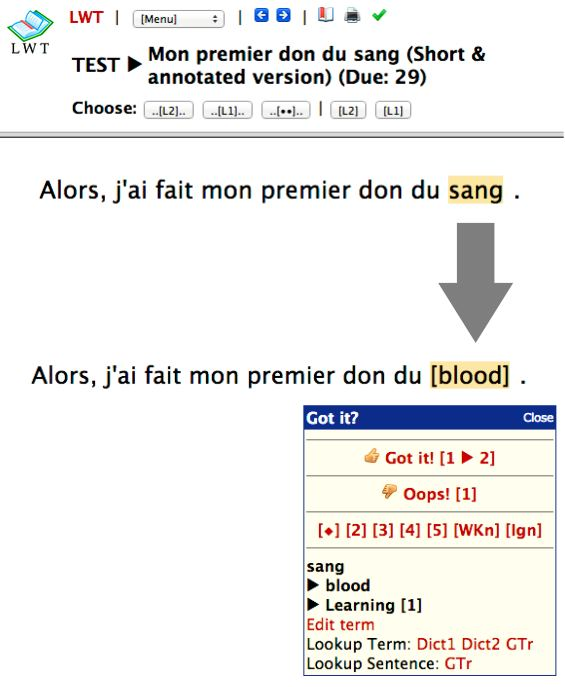
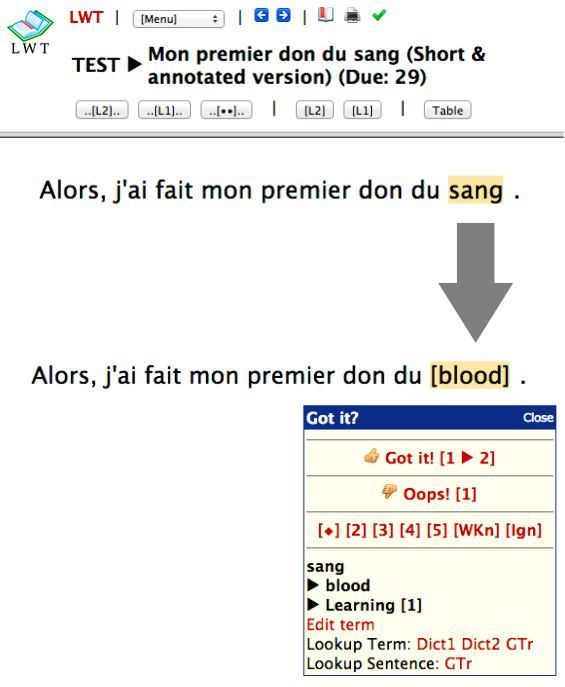
Version 1.5.4 (18-Jun-2013 19:01)

Changed region(s): [[0.4513, 0.1223, 0.8425, 0.1834], [0.1204, 0.1223, 0.4212, 0.1834]]

diff --git a/info.htm b/info.htm
@@ -247,14 +247,18 @@ $(document).ready( function() {
           </li>
 
           <li>
-            <b>LWT Online Demo</b> (User ID = <b>lwt</b>, Password = <b>lwt</b>) - <b>try it out:</b>
+            <b>LWT Online Demos</b> - <b>try it out:</b>
 						<ul>
-							<li>
-							<a href="http://lwt.sourceforge.net/testdb/" target="_blank"><b>START ONLINE DEMO</b></a> <br />
-							This LWT trial runs on a rather slow Sourceforge server. Please do not use for productive work. Your data may be deleted at any time! Only one LWT table set is available - the multiple table set feature has been deactivated in this demo!
+							<li><b>General Hints:</b>
+								<ul>
+								<li>Please do not use for productive work.</li>
+								<li>Your data may be deleted at any time by other users!</li>
+								<li>Only one LWT table set is available - the multiple table set feature has been deactivated.</li>
+								<li>You may "reset" the demo by going to "Backup/Restore", and by clicking on "Install LWT Demo Database".</li>
+							</ul>
+							<li><a href="http://lwt.allalla.com" target="_blank"><b>START ONLINE DEMO #1</b></a> (at 1freehosting.com, quite fast, User ID = <b>lwt</b>, Password = <b>pw4lwt</b>)
 							</li>
-							<li>
-							<b>Hint: </b>You may "reset" the demo by going to "Backup/Restore", and by clicking on "Install LWT Demo Database". 
+							<li><a href="http://lwt.sourceforge.net/testdb/" target="_blank"><b>START ONLINE DEMO #2</b></a> (at sourceforge.net, quite slow sometimes, User ID = <b>lwt</b>, Password = <b>lwt</b>)
 							</li>
 						</ul>
             <br />
@@ -1352,7 +1356,7 @@ Developed by J. P. in 2011, 2012, 2013.
             <b>Test terms in a text (L2 -&gt; L1)</b>
             <br />
             <br />
-            This is Test #1: L2 -&gt; L1 (recognition) - to train your ability to recognize a L2 term. You may test within sentence context (Button "..[L2].."), or just the term (Button "[L2]"). You can also use the Keyboard in the test frame, see <a href="#keybind">Key Bindings</a>.
+            This is Test #1 or #4: L2 -&gt; L1 (recognition) - to train your ability to recognize a L2 term. You may test within sentence context (Button "..[L2].."), or just the term (Button "[L2]"). You can also use the Keyboard in the test frame, see <a href="#keybind">Key Bindings</a>.
             <br />
             <br />
             <img class="grayborder" src="img/07.jpg" alt="Image" />
@@ -1364,7 +1368,7 @@ Developed by J. P. in 2011, 2012, 2013.
             <b>Test terms in a text (L1 -&gt; L2)</b>
             <br />
             <br />
-            This is Test #2: L1 -&gt; L2 (recall) - to train your ability to produce a term from L1. You may test within sentence context (Button "..[L1].."), or just the term (Button "[L1]"). You can also use the Keyboard in the test frame, see <a href="#keybind">Key Bindings</a>.
+            This is Test #2 or #5: L1 -&gt; L2 (recall) - to train your ability to produce a term from L1. You may test within sentence context (Button "..[L1].."), or just the term (Button "[L1]"). You can also use the Keyboard in the test frame, see <a href="#keybind">Key Bindings</a>.
             <br />
             <br />
             <img class="grayborder" src="img/11.jpg" alt="Image" />
@@ -1380,6 +1384,18 @@ Developed by J. P. in 2011, 2012, 2013.
             <br />
             <br />
             <img class="grayborder" src="img/12.jpg" alt="Image" />
+            <br />
+            <br />
+          </li>
+
+          <li>
+            <b>Test yourself in a table / word list format (Button "Table")</b>
+            <br />
+            <br />
+            This is test #6: The selected terms and expressions are presented as a table. You can make invisible either the columns "Term" or "Translation", and you can hide or show the columns "Sentence", "Romanization", "Status" and "Ed" (Edit). To reveal the invisible solution ("Term" or "Translation"), you just click into the empty table cell. You can review or test yourself with or without changing the status by clicking "+" or "-" in the "Status" column. A status in red signifies that the term is due for testing. You can also edit the term by clicking the yellow "Edit" icon. Columns 2 to 6 may also my sorted by clicking on the header row. The initial sort order is according to term score.
+            <br />
+            <br />
+            <img class="grayborder" src="img/32.jpg" alt="Image" />
             <br />
             <br />
           </li>
@@ -2318,7 +2334,7 @@ with audioplayer", if needed.</li>
         	<br />
         	A new test/review type "Table" has been added in the testing area. Words, translations, romanizations, sentences and status are presented in a table. You may hide and/or sort columns. After testing yourself, you can reveal the hidden information by clicking into the table cell, and change your status. 
         	<br />
-        	Player appearance improved. Some settings that were not saved until now, are now automatically saved. Documentation updated. 
+        	Player appearance improved. Some settings, that were not saved until now, are now automatically saved. Documentation and some screenshots updated. 
         	<br /><br />
         	</li>
 

diff --git a/do_test_table.php b/do_test_table.php
@@ -168,7 +168,7 @@ $(document).ready( function() {
 </tr>
 <?php
 
-$sql = 'SELECT DISTINCT WoID, WoText, WoTranslation, WoRomanization, WoSentence, WoStatus, WoTodayScore As Score FROM ' . $testsql . ' AND WoStatus BETWEEN 1 AND 5 AND WoTranslation != \'\' AND WoTranslation != \'*\' order by WoTodayScore, WoRandom';
+$sql = 'SELECT DISTINCT WoID, WoText, WoTranslation, WoRomanization, WoSentence, WoStatus, WoTodayScore As Score FROM ' . $testsql . ' AND WoStatus BETWEEN 1 AND 5 AND WoTranslation != \'\' AND WoTranslation != \'*\' order by WoTodayScore, WoRandom*RAND()';
 if ($debug) echo $sql;
 $res = mysql_query($sql);		
 if ($res == FALSE) die("Invalid Query: $sql");
